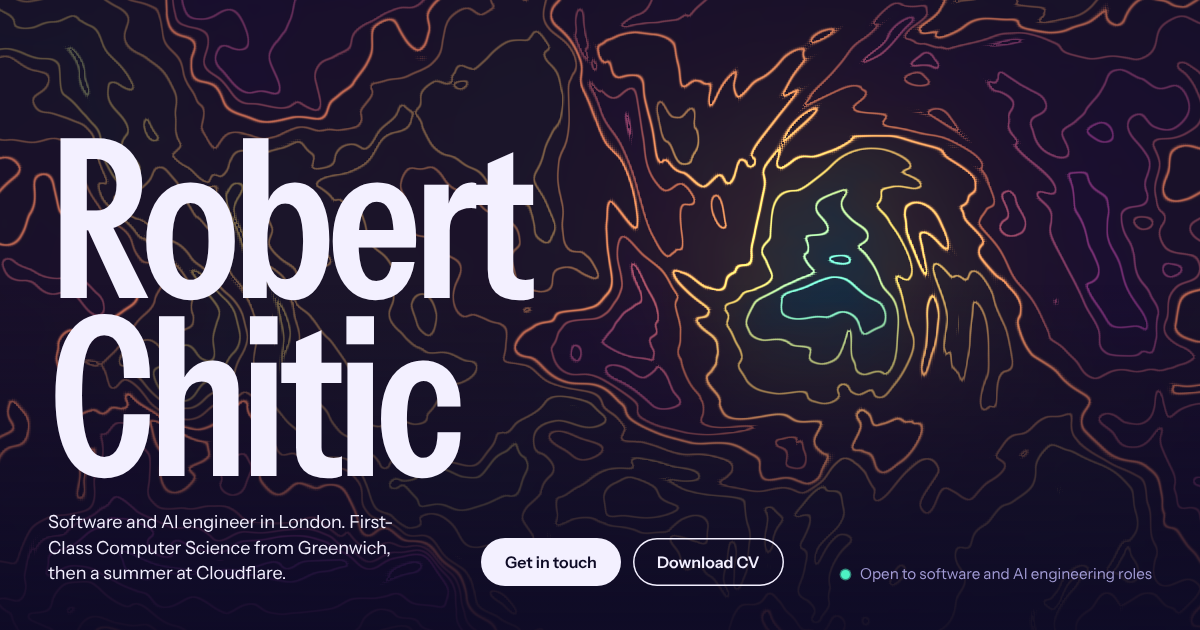
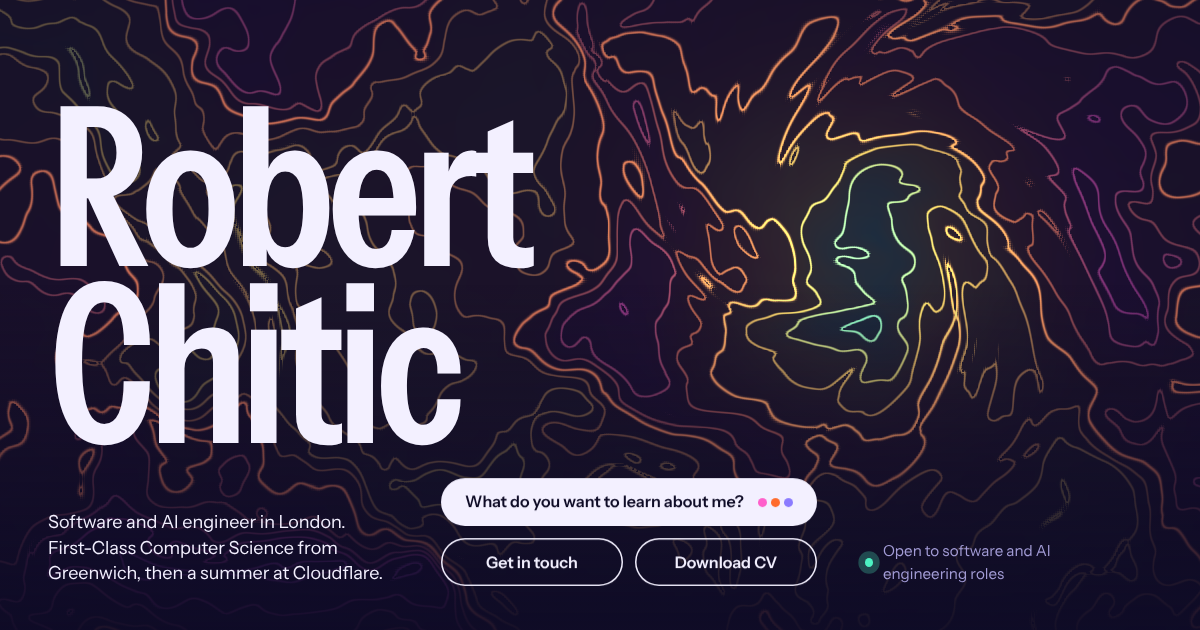
Add click-to-cycle field colours, section menu and LinkedIn link
- Hero field: each click moves every colour band one step towards the cursor
- New 'What do you want to learn about me?' menu: About me, Experience, Projects
- Projects now follow the dissertation; personal section becomes About me
- Correct LinkedIn URL

Claude-Session: https://claude.ai/code/session_01U5PXQ7pjfS4YKo98Lw3CHh

diff --git a/public/assets/site.js b/public/assets/site.js
@@ -57,7 +57,7 @@
       in vec2 p; void main(){ gl_Position = vec4(p, 0.0, 1.0); }`;
     const fs = `#version 300 es
       precision highp float;
-      uniform vec2 uRes; uniform float uTime; uniform vec2 uMouse; uniform float uHover;
+      uniform vec2 uRes; uniform float uTime; uniform vec2 uMouse; uniform float uHover; uniform float uShift; uniform vec3 uClick;
       out vec4 o;
       vec2 hash(vec2 p){ p = vec2(dot(p,vec2(127.1,311.7)), dot(p,vec2(269.5,183.3))); return -1.0 + 2.0*fract(sin(p)*43758.5453123); }
       float noise(vec2 p){
@@ -67,10 +67,13 @@
       }
       float fbm(vec2 p){ float v = 0.0, a = 0.5; mat2 r = mat2(0.8,0.6,-0.6,0.8);
         for (int i = 0; i < 4; i++){ v += a*noise(p); p = r*p*2.03 + vec2(1.7,9.2); a *= 0.5; } return v; }
+      // Five colours in a loop. uShift slides every band one step towards the cursor per click;
+      // the colour at the centre wraps round to the outside.
       vec3 ramp(float t){
-        t = clamp(t, 0.0, 1.0) * 4.0;
+        t = mod(clamp(t, 0.0, 1.0) - uShift, 1.25) * 4.0;
         vec3 c0 = vec3(0.36,0.33,1.00), c1 = vec3(1.00,0.31,0.80), c2 = vec3(1.00,0.52,0.24), c3 = vec3(1.00,0.88,0.30), c4 = vec3(0.30,0.95,0.76);
-        if (t < 1.0) return mix(c0,c1,t); if (t < 2.0) return mix(c1,c2,t-1.0); if (t < 3.0) return mix(c2,c3,t-2.0); return mix(c3,c4,t-3.0);
+        if (t < 1.0) return mix(c0,c1,t); if (t < 2.0) return mix(c1,c2,t-1.0); if (t < 3.0) return mix(c2,c3,t-2.0);
+        if (t < 4.0) return mix(c3,c4,t-3.0); return mix(c4,c0,t-4.0);
       }
       void main(){
         vec2 uv = gl_FragCoord.xy / uRes;
@@ -83,7 +86,10 @@
         vec2 q = m + rot*dm;
         float t = uTime * 0.045;
         vec2 w = vec2(fbm(q*0.85 + vec2(t, -t)), fbm(q*0.85 + vec2(4.0 - t, 1.3 + t)));
-        float h = fbm(q*0.75 + w*1.7 + vec2(0.0, t*0.5)) + bump*0.32;
+        vec2 cp = (uClick.xy/uRes - 0.5) * asp * 2.4;
+        float age = uClick.z;
+        float ring = exp(-pow((length(p - cp) - age*1.7) * 5.5, 2.0)) * exp(-age*1.5) * step(age, 5.0);
+        float h = fbm(q*0.75 + w*1.7 + vec2(0.0, t*0.5)) + bump*0.32 + ring*0.07;
         float N = 15.0;
         float hv = h*N;
         float fw = fwidth(hv);
@@ -92,7 +98,7 @@
         float major = 1.0 - smoothstep(0.0, fw*2.6, abs(fract(hv/5.0 - 0.5) - 0.5)*5.0);
         vec3 col = ramp(h*1.15 + 0.5 + bump*0.25);
         vec3 bg = vec3(0.055, 0.043, 0.149);
-        float glow = 0.42 + 0.9*bump;
+        float glow = 0.42 + 0.9*bump + 0.8*ring;
         vec3 c = bg + col*0.05 + col*line*glow*0.85 + col*major*0.35;
         c += col * bump * 0.10;
         float v = smoothstep(1.25, 0.2, length((uv - vec2(0.5,0.55))*vec2(1.0,1.15)));
@@ -109,9 +115,10 @@
     gl.bufferData(gl.ARRAY_BUFFER, new Float32Array([-1,-1, 3,-1, -1,3]), gl.STATIC_DRAW);
     const loc = gl.getAttribLocation(prog, 'p'); gl.enableVertexAttribArray(loc); gl.vertexAttribPointer(loc, 2, gl.FLOAT, false, 0, 0);
     const U = n => gl.getUniformLocation(prog, n);
-    const uRes = U('uRes'), uTime = U('uTime'), uMouse = U('uMouse'), uHover = U('uHover');
+    const uRes = U('uRes'), uTime = U('uTime'), uMouse = U('uMouse'), uHover = U('uHover'), uShift = U('uShift'), uClick = U('uClick');
     let scale = 1, W = 0, H = 0, on = true, raf = 0, simT = 8, lastNow = 0;
     const sm = { x: mouse.x, y: mouse.y, h: 0.55 };
+    const pal = { shift: 0, target: 0 }, click = { x: 0, y: 0, at: -99 };
     function resize() {
       scale = Math.min(devicePixelRatio || 1, innerWidth < 760 ? 1 : 1.5);
       W = Math.round(innerWidth * scale); H = Math.round(innerHeight * scale);
@@ -128,6 +135,8 @@
       gl.uniform1f(uTime, simT);
       gl.uniform2f(uMouse, sm.x * scale, (innerHeight - sm.y) * scale);
       gl.uniform1f(uHover, sm.h);
+      gl.uniform1f(uShift, pal.shift % 1.25);
+      gl.uniform3f(uClick, click.x * scale, (innerHeight - click.y) * scale, reduce ? 99 : simT - click.at);
       gl.drawArrays(gl.TRIANGLES, 0, 3);
     }
     function loop(now) { frame(now); raf = on ? requestAnimationFrame(loop) : 0; }
@@ -140,12 +149,22 @@
     if (!reduce) raf = requestAnimationFrame(loop);
     if (reduce) addEventListener('pointermove', () => on && frame(performance.now()), { passive: true });
     document.addEventListener('visibilitychange', () => { if (document.hidden) { on = false; } else if (glOnWanted) { on = true; if (!reduce && !raf) raf = requestAnimationFrame(loop); } });
-    return { show };
+    // One click = every colour band moves one step inwards.
+    function cycle(x, y) {
+      pal.target += 0.25;
+      if (!paused) { click.x = x; click.y = y; click.at = simT; }
+      gsap.to(pal, { shift: pal.target, duration: reduce ? 0 : 0.9, ease: 'power3.out', overwrite: true, onUpdate: () => { if (reduce) frame(performance.now()); } });
+    }
+    return { show, cycle };
   })();
   let heroOn = true, contactOn = false, glOnWanted = true;
   const syncGL = () => { glOnWanted = heroOn || contactOn; field && field.show(glOnWanted); };
   ScrollTrigger.create({ trigger: '.hero', start: 'top bottom', end: 'bottom 15%', onToggle: s => { heroOn = s.isActive; syncGL(); } });
   ScrollTrigger.create({ trigger: '#contact', start: 'top 45%', end: 'bottom top', onToggle: s => { contactOn = s.isActive; syncGL(); } });
+  // Clicking the field (not a link or button) cycles its colours.
+  const cycleField = e => { if (field && !e.target.closest('a, button')) field.cycle(e.clientX, e.clientY); };
+  $('.hero').addEventListener('click', cycleField);
+  $('#contact').addEventListener('click', cycleField);
 
   /* ------------------------------------------------------------------
      3. Name: letters stretch and thicken as the cursor passes (variable font axes)
@@ -227,6 +246,65 @@
       el.addEventListener('pointerleave', () => { rX(0); rY(0); el.style.setProperty('--go', 0); });
     });
   }
+
+  /* ------------------------------------------------------------------
+     5. "What do you want to learn about me?" menu
+  ------------------------------------------------------------------ */
+  (function menu() {
+    const dlg = $('#menu'), opener = $('#menuOpen');
+    if (typeof dlg.showModal !== 'function') { opener.hidden = true; return; }
+    const panel = $('.menu-panel', dlg), scrim = $('.menu-scrim', dlg), opts = $$('.menu-opt', dlg), cur = $('.cursor');
+    const BASE = { ...THEMES.night, bg: '#14103A' };
+    let closing = false;
+    // The panel floods with the colour of the section you are pointing at (set on the dialog so the cursor follows too).
+    const paint = (t, instant) => gsap.to(dlg, {
+      '--bg': t.bg, '--fg': t.fg, '--muted': t.muted, '--line': t.line, '--accent': t.accent, '--accent-2': t.accent2, '--hi': t.hi,
+      duration: instant || reduce ? 0 : 0.45, ease: 'power2.out', overwrite: 'auto'
+    });
+    function open() {
+      closing = false;
+      paint(BASE, true);
+      dlg.showModal();
+      dlg.appendChild(cur); // the dialog sits above the page, so the custom cursor has to come with it
+      if (reduce) return;
+      gsap.fromTo(scrim, { opacity: 0 }, { opacity: 1, duration: 0.3, ease: 'power2.out' });
+      gsap.fromTo(panel, { y: 36, scale: 0.96, opacity: 0 }, { y: 0, scale: 1, opacity: 1, duration: 0.55, ease: 'expo.out', clearProps: 'transform' });
+      gsap.fromTo(opts, { y: 28, opacity: 0 }, { y: 0, opacity: 1, duration: 0.6, ease: 'expo.out', stagger: 0.07, delay: 0.08, clearProps: 'transform,opacity' });
+    }
+    function close(then) {
+      if (!dlg.open || closing) return;
+      const done = () => { dlg.close(); then && then(); };
+      if (reduce) return done();
+      closing = true;
+      gsap.to(scrim, { opacity: 0, duration: 0.22, ease: 'power2.in' });
+      gsap.to(panel, { y: 16, opacity: 0, duration: 0.22, ease: 'power2.in', onComplete: done });
+    }
+    dlg.addEventListener('close', () => {
+      closing = false;
+      document.body.prepend(cur);
+      gsap.killTweensOf([panel, scrim, ...opts]);
+      gsap.set([panel, scrim, ...opts], { clearProps: 'transform,opacity' });
+    });
+    opener.addEventListener('click', open);
+    $$('[data-close]', dlg).forEach(el => el.addEventListener('click', () => close()));
+    opts.forEach(a => {
+      const theme = THEMES[a.dataset.theme];
+      a.addEventListener('pointerenter', () => paint(theme));
+      a.addEventListener('pointerleave', () => paint(BASE));
+      a.addEventListener('focus', () => { if (a.matches(':focus-visible')) paint(theme); });
+      a.addEventListener('blur', () => paint(BASE));
+      a.addEventListener('click', e => {
+        e.preventDefault();
+        const hash = a.getAttribute('href'), target = $(hash);
+        close(() => {
+          try { history.pushState(null, '', hash); } catch { /* sandboxed previews block this; the scroll still happens */ }
+          target.setAttribute('tabindex', '-1');
+          target.focus({ preventScroll: true });
+          scrollTo({ top: target.getBoundingClientRect().top + scrollY, behavior: reduce ? 'auto' : 'smooth' });
+        });
+      });
+    });
+  })();
 
   /* ------------------------------------------------------------------
      6. Research: unit chart, score bars, pipeline progress

diff --git a/public/index.html b/public/index.html
@@ -29,9 +29,10 @@
   <a class="nav-name" href="#top" data-magnetic>RC</a>
   <nav aria-label="Sections">
     <a href="#research" data-magnetic>Research</a>
-    <a href="#cloudflare" data-magnetic>Cloudflare</a>
     <a href="#projects" data-magnetic>Projects</a>
+    <a href="#cloudflare" data-magnetic>Cloudflare</a>
     <a href="#timeline" data-magnetic>Timeline</a>
+    <a href="#about" data-magnetic>About</a>
     <a class="nav-cta" href="#contact" data-magnetic>Contact</a>
   </nav>
 </header>
@@ -48,13 +49,14 @@
     <div class="hero-foot">
       <p class="lede">Software and AI engineer in London. First-Class Computer Science from Greenwich, then a summer at Cloudflare.</p>
       <div class="hero-actions">
-        <a class="btn" href="#contact" data-magnetic>Get in touch</a>
+        <button class="btn btn-ask" id="menuOpen" type="button" aria-haspopup="dialog" data-magnetic>What do you want to learn about me?<span class="ask-dots" aria-hidden="true"><i></i><i></i><i></i></span></button>
+        <a class="btn btn-ghost" href="#contact" data-magnetic>Get in touch</a>
         <a class="btn btn-ghost" href="cv/Robert-Chitic-CV.pdf" download data-magnetic data-cursor="PDF">Download CV</a>
       </div>
       <p class="status"><i></i>Open to software and AI engineering roles</p>
     </div>
   </div>
-  <p class="hint" id="hint">Move your cursor through the field</p>
+  <p class="hint" id="hint">Move through the field. Click to shift the colours.</p>
 </section>
 
 <!-- RESEARCH -->
@@ -105,31 +107,6 @@
         <li><strong>Chrome extension</strong><span>Scores the article you’re reading</span></li>
       </ol>
     </figure>
-  </div>
-</section>
-
-<!-- CLOUDFLARE -->
-<section class="sec" id="cloudflare" data-theme="orange">
-  <div class="wrap">
-    <p class="kicker">Technical Support Engineer Intern, Cloudflare, July to September 2026</p>
-    <h2 class="statement">A summer on Cloudflare’s Premium and Enterprise cases.</h2>
-
-    <figure class="ddos" id="ddos">
-      <div class="ddos-head">
-        <p class="label">Hover a layer to launch an attack</p>
-        <p class="ddos-count"><b class="num" id="blocked">0</b> attack packets blocked</p>
-      </div>
-      <canvas id="ddosCanvas" data-cursor="Attack" tabindex="0" role="img" aria-label="Animation: attack traffic is blocked at layers 3, 4 and 7 while real users pass through. Press 3, 4 or 7 to launch an attack at that layer."></canvas>
-      <figcaption>Based on an attack-and-defend lab set by my manager: I reproduced DDoS attacks at layers 3, 4 and 7 on DigitalOcean VMs, then defended against them with WAF rules, SSL/TLS and Zero Trust.</figcaption>
-    </figure>
-
-    <ol class="log">
-      <li><span class="lead num" data-count="60">60</span><p>Premium and Enterprise cases resolved, through tickets and live customer calls across Cloudflare’s networking and security products.</p></li>
-      <li><span class="lead">Built solo</span><p>An onboarding tool for new hires: a wiki of hundreds of troubleshooting guides and past cases, linked to Cloudflare’s internal AI assistant through an MCP server that guides people to the answer.</p></li>
-      <li><span class="lead num">1 of <span data-count="50">50</span></span><p>Teams in the company hackathon, across EMEA, North America and APAC. We built an on-page AI assistant on Workers AI that restyles any website on request.</p></li>
-      <li><span class="lead">On call</span><p>Joined the PagerDuty rota. Traced root causes with shell scripts, Python and networking tools, and escalated confirmed bugs to engineering with reproduction steps.</p></li>
-      <li><span class="lead">Shout-out</span><p>Recognised company-wide at the end of the internship for supporting the team and joining high-priority customer calls.</p></li>
-    </ol>
   </div>
 </section>
 
@@ -204,6 +181,31 @@
   </div>
 </section>
 
+<!-- CLOUDFLARE -->
+<section class="sec" id="cloudflare" data-theme="orange">
+  <div class="wrap">
+    <p class="kicker">Technical Support Engineer Intern, Cloudflare, July to September 2026</p>
+    <h2 class="statement">A summer on Cloudflare’s Premium and Enterprise cases.</h2>
+
+    <figure class="ddos" id="ddos">
+      <div class="ddos-head">
+        <p class="label">Hover a layer to launch an attack</p>
+        <p class="ddos-count"><b class="num" id="blocked">0</b> attack packets blocked</p>
+      </div>
+      <canvas id="ddosCanvas" data-cursor="Attack" tabindex="0" role="img" aria-label="Animation: attack traffic is blocked at layers 3, 4 and 7 while real users pass through. Press 3, 4 or 7 to launch an attack at that layer."></canvas>
+      <figcaption>Based on an attack-and-defend lab set by my manager: I reproduced DDoS attacks at layers 3, 4 and 7 on DigitalOcean VMs, then defended against them with WAF rules, SSL/TLS and Zero Trust.</figcaption>
+    </figure>
+
+    <ol class="log">
+      <li><span class="lead num" data-count="60">60</span><p>Premium and Enterprise cases resolved, through tickets and live customer calls across Cloudflare’s networking and security products.</p></li>
+      <li><span class="lead">Built solo</span><p>An onboarding tool for new hires: a wiki of hundreds of troubleshooting guides and past cases, linked to Cloudflare’s internal AI assistant through an MCP server that guides people to the answer.</p></li>
+      <li><span class="lead num">1 of <span data-count="50">50</span></span><p>Teams in the company hackathon, across EMEA, North America and APAC. We built an on-page AI assistant on Workers AI that restyles any website on request.</p></li>
+      <li><span class="lead">On call</span><p>Joined the PagerDuty rota. Traced root causes with shell scripts, Python and networking tools, and escalated confirmed bugs to engineering with reproduction steps.</p></li>
+      <li><span class="lead">Shout-out</span><p>Recognised company-wide at the end of the internship for supporting the team and joining high-priority customer calls.</p></li>
+    </ol>
+  </div>
+</section>
+
 <!-- TOOLKIT -->
 <section class="sec" id="toolkit" data-theme="lime">
   <div class="wrap">
@@ -245,9 +247,10 @@
   </div>
 </section>
 
-<!-- AWAY -->
-<section class="sec" id="away" data-theme="pink">
+<!-- ABOUT -->
+<section class="sec" id="about" data-theme="pink">
   <div class="wrap">
+    <p class="kicker">About me</p>
     <h2 class="statement">I like taking things apart to see how they work.</h2>
     <ul class="away">
       <li>
@@ -287,7 +290,7 @@
       <button class="btn" id="copy" type="button" data-magnetic data-cursor="Copy">Copy email</button>
       <span class="sr" id="copyStatus" aria-live="polite"></span>
       <a class="btn btn-ghost" href="https://github.com/RobertChitic" rel="me noopener" target="_blank" data-magnetic>GitHub</a>
-      <a class="btn btn-ghost" href="https://www.linkedin.com/in/robert-chitic" rel="me noopener" target="_blank" data-magnetic>LinkedIn</a>
+      <a class="btn btn-ghost" href="https://www.linkedin.com/in/robert-chitic-86170a345/" rel="me noopener" target="_blank" data-magnetic>LinkedIn</a>
       <a class="btn btn-ghost" href="cv/Robert-Chitic-CV.pdf" download data-magnetic data-cursor="PDF">CV</a>
     </div>
     <footer class="foot">
@@ -298,6 +301,21 @@
   </div>
 </section>
 </main>
+
+<dialog class="menu" id="menu" aria-labelledby="menuTitle">
+  <div class="menu-scrim" data-close></div>
+  <div class="menu-panel">
+    <div class="menu-head">
+      <h2 id="menuTitle">What do you want to learn about me?</h2>
+      <button class="btn btn-ghost menu-close" type="button" data-close data-magnetic>Close</button>
+    </div>
+    <nav class="menu-list" aria-label="Jump to a section">
+      <a class="menu-opt" href="#about" data-theme="pink"><span class="menu-word">About me</span><span class="menu-sub">Who I am away from the desk</span></a>
+      <a class="menu-opt" href="#cloudflare" data-theme="orange"><span class="menu-word">Experience</span><span class="menu-sub">A summer in technical support at Cloudflare</span></a>
+      <a class="menu-opt" href="#research" data-theme="lavender"><span class="menu-word">Projects</span><span class="menu-sub">My dissertation and three more builds</span></a>
+    </nav>
+  </div>
+</dialog>
 
 <script src="vendor/gsap.min.js"></script>
 <script src="vendor/ScrollTrigger.min.js"></script>

diff --git a/public/assets/site.css b/public/assets/site.css
@@ -15,7 +15,9 @@
   --ease:cubic-bezier(.2,.7,.2,1);
 }
 *,*::before,*::after{box-sizing:border-box}
-html{-webkit-text-size-adjust:100%;background:var(--bg);scroll-padding-top:96px}
+html{-webkit-text-size-adjust:100%;background:var(--bg);scroll-padding-top:96px;scrollbar-gutter:stable}
+html:has(.menu[open]){overflow:hidden}
+main>section:focus{outline:none}
 body{margin:0;background:var(--bg);color:var(--fg);font-family:var(--font);font-size:1.0625rem;line-height:1.55;-webkit-font-smoothing:antialiased;overflow-x:hidden}
 a{color:inherit}
 a,button,[role="button"]{touch-action:manipulation;-webkit-tap-highlight-color:transparent}
@@ -82,12 +84,20 @@ main{position:relative;z-index:1}
 .name .ch{display:inline-block;font-variation-settings:"wdth" var(--w,75),"wght" var(--g,600);will-change:font-variation-settings}
 .hero-foot{display:grid;grid-template-columns:minmax(0,1.2fr) auto minmax(0,1fr);gap:24px 48px;align-items:end}
 .lede{margin:0;max-width:36ch;font-size:clamp(1.1rem,1.5vw,1.35rem);line-height:1.4}
-.hero-actions{display:flex;gap:12px;flex-wrap:wrap}
+.hero-actions{display:grid;grid-template-columns:1fr 1fr;gap:12px;width:max-content;max-width:100%}
+.btn-ask{grid-column:1/-1;gap:14px;padding-block:12px;text-align:left;line-height:1.2}
+.ask-dots{display:inline-flex;gap:4px;flex:none}
+.ask-dots i{width:9px;height:9px;border-radius:50%;background:#FF5FCB;transition:transform .35s var(--ease),background-color .3s}
+.ask-dots i:nth-child(2){background:#FF6B2C}
+.ask-dots i:nth-child(3){background:#8B7BFF}
+.btn-ask:hover .ask-dots i{background:#fff}
+.btn-ask:hover .ask-dots i:nth-child(1){transform:translateY(-3px)}
+.btn-ask:hover .ask-dots i:nth-child(3){transform:translateY(3px)}
 .status{margin:0;justify-self:end;display:flex;align-items:center;gap:10px;font-size:.95rem;color:var(--muted)}
 .status i{width:9px;height:9px;border-radius:50%;background:var(--hi);box-shadow:0 0 0 0 var(--hi);animation:ping 2.4s infinite}
 @keyframes ping{0%{box-shadow:0 0 0 0 rgba(77,242,195,.6)}80%,100%{box-shadow:0 0 0 12px rgba(77,242,195,0)}}
 .hint{position:absolute;top:50%;right:var(--gutter);margin:0;transform:translateY(-50%) rotate(90deg);transform-origin:100% 50%;font-size:.8rem;color:var(--muted);letter-spacing:.02em;opacity:0}
-@media (max-width:900px){.hero-foot{grid-template-columns:1fr}.status{justify-self:start}.hint{display:none}}
+@media (max-width:900px){.hero-foot{grid-template-columns:1fr}.status{justify-self:start}.hint{display:none}.hero-actions{width:min(100%,26rem)}}
 @media (max-width:600px){.name{font-size:clamp(4rem,30vw,9rem)}}
 
 /* sections */
@@ -286,3 +296,27 @@ main{position:relative;z-index:1}
   .status i,.wire.flow{animation:none!important}
   .away li:hover svg *{animation:none}
 }
+
+/* "What do you want to learn about me?" menu */
+.menu{--bg:#14103A;--fg:#F3F0FF;--muted:#A39CD6;--line:#2E2860;--accent:#8B7BFF;--accent-2:#FF5FCB;--hi:#4DF2C3;position:fixed;inset:0;width:100%;height:100%;max-width:none;max-height:none;margin:0;border:0;background:transparent;color:inherit;overflow:auto;overscroll-behavior:contain;
+  padding:max(16px,env(safe-area-inset-top,0px)) max(16px,env(safe-area-inset-right,0px)) max(16px,env(safe-area-inset-bottom,0px)) max(16px,env(safe-area-inset-left,0px))}
+.menu[open]{display:grid;place-items:center}
+.menu::backdrop{background:transparent}
+.menu-scrim{position:fixed;inset:0;background:rgba(8,6,24,.66);backdrop-filter:blur(16px) saturate(1.3);-webkit-backdrop-filter:blur(16px) saturate(1.3)}
+.menu-panel{position:relative;width:min(940px,100%);padding:clamp(20px,3.6vw,40px) clamp(20px,4vw,48px) clamp(12px,2.4vw,28px);border-radius:clamp(24px,3vw,36px);background:var(--bg);color:var(--fg);box-shadow:inset 0 0 0 1px var(--line),0 40px 120px rgba(0,0,0,.55)}
+.menu-head{display:flex;align-items:center;justify-content:space-between;gap:16px;margin-bottom:clamp(12px,2vw,24px)}
+.menu-head h2{margin:0;font-size:1.0625rem;font-weight:500;color:var(--muted)}
+.menu-close{min-height:44px;padding:0 18px;font-size:.92rem;flex:none}
+.menu-list{display:grid}
+/* inside the dialog the cursor drops its blend mode, so the blur behind the scrim still works */
+.menu .cursor{mix-blend-mode:normal}
+.menu .cursor-ring{border-color:var(--fg)}
+.menu .cursor-dot{background:var(--fg)}
+.menu-opt{display:grid;grid-template-columns:minmax(0,1fr) auto;align-items:baseline;gap:6px 24px;padding:clamp(14px,2.2vw,24px) 0 clamp(16px,2.4vw,28px);border-top:1.5px solid var(--line);color:var(--fg);text-decoration:none;transition:opacity .3s}
+.menu-word{font-weight:600;font-variation-settings:"wdth" 75,"wght" 600;font-size:clamp(3rem,10vw,7.25rem);line-height:.88;letter-spacing:-.04em;white-space:nowrap;transition:font-variation-settings .5s var(--ease)}
+.menu-sub{max-width:20ch;text-align:right;color:var(--muted);font-size:1rem;line-height:1.3}
+.menu-opt:hover .menu-word,.menu-opt:focus-visible .menu-word{font-variation-settings:"wdth" 100,"wght" 700}
+.menu-list:has(.menu-opt:hover) .menu-opt:not(:hover){opacity:.4}
+.menu-opt:focus-visible{outline-offset:-2px}
+@media (max-width:640px){.menu-opt{grid-template-columns:1fr}.menu-sub{text-align:left;max-width:none}}
+@media (prefers-reduced-motion:reduce){.menu-word,.menu-opt,.ask-dots i{transition:none}}
